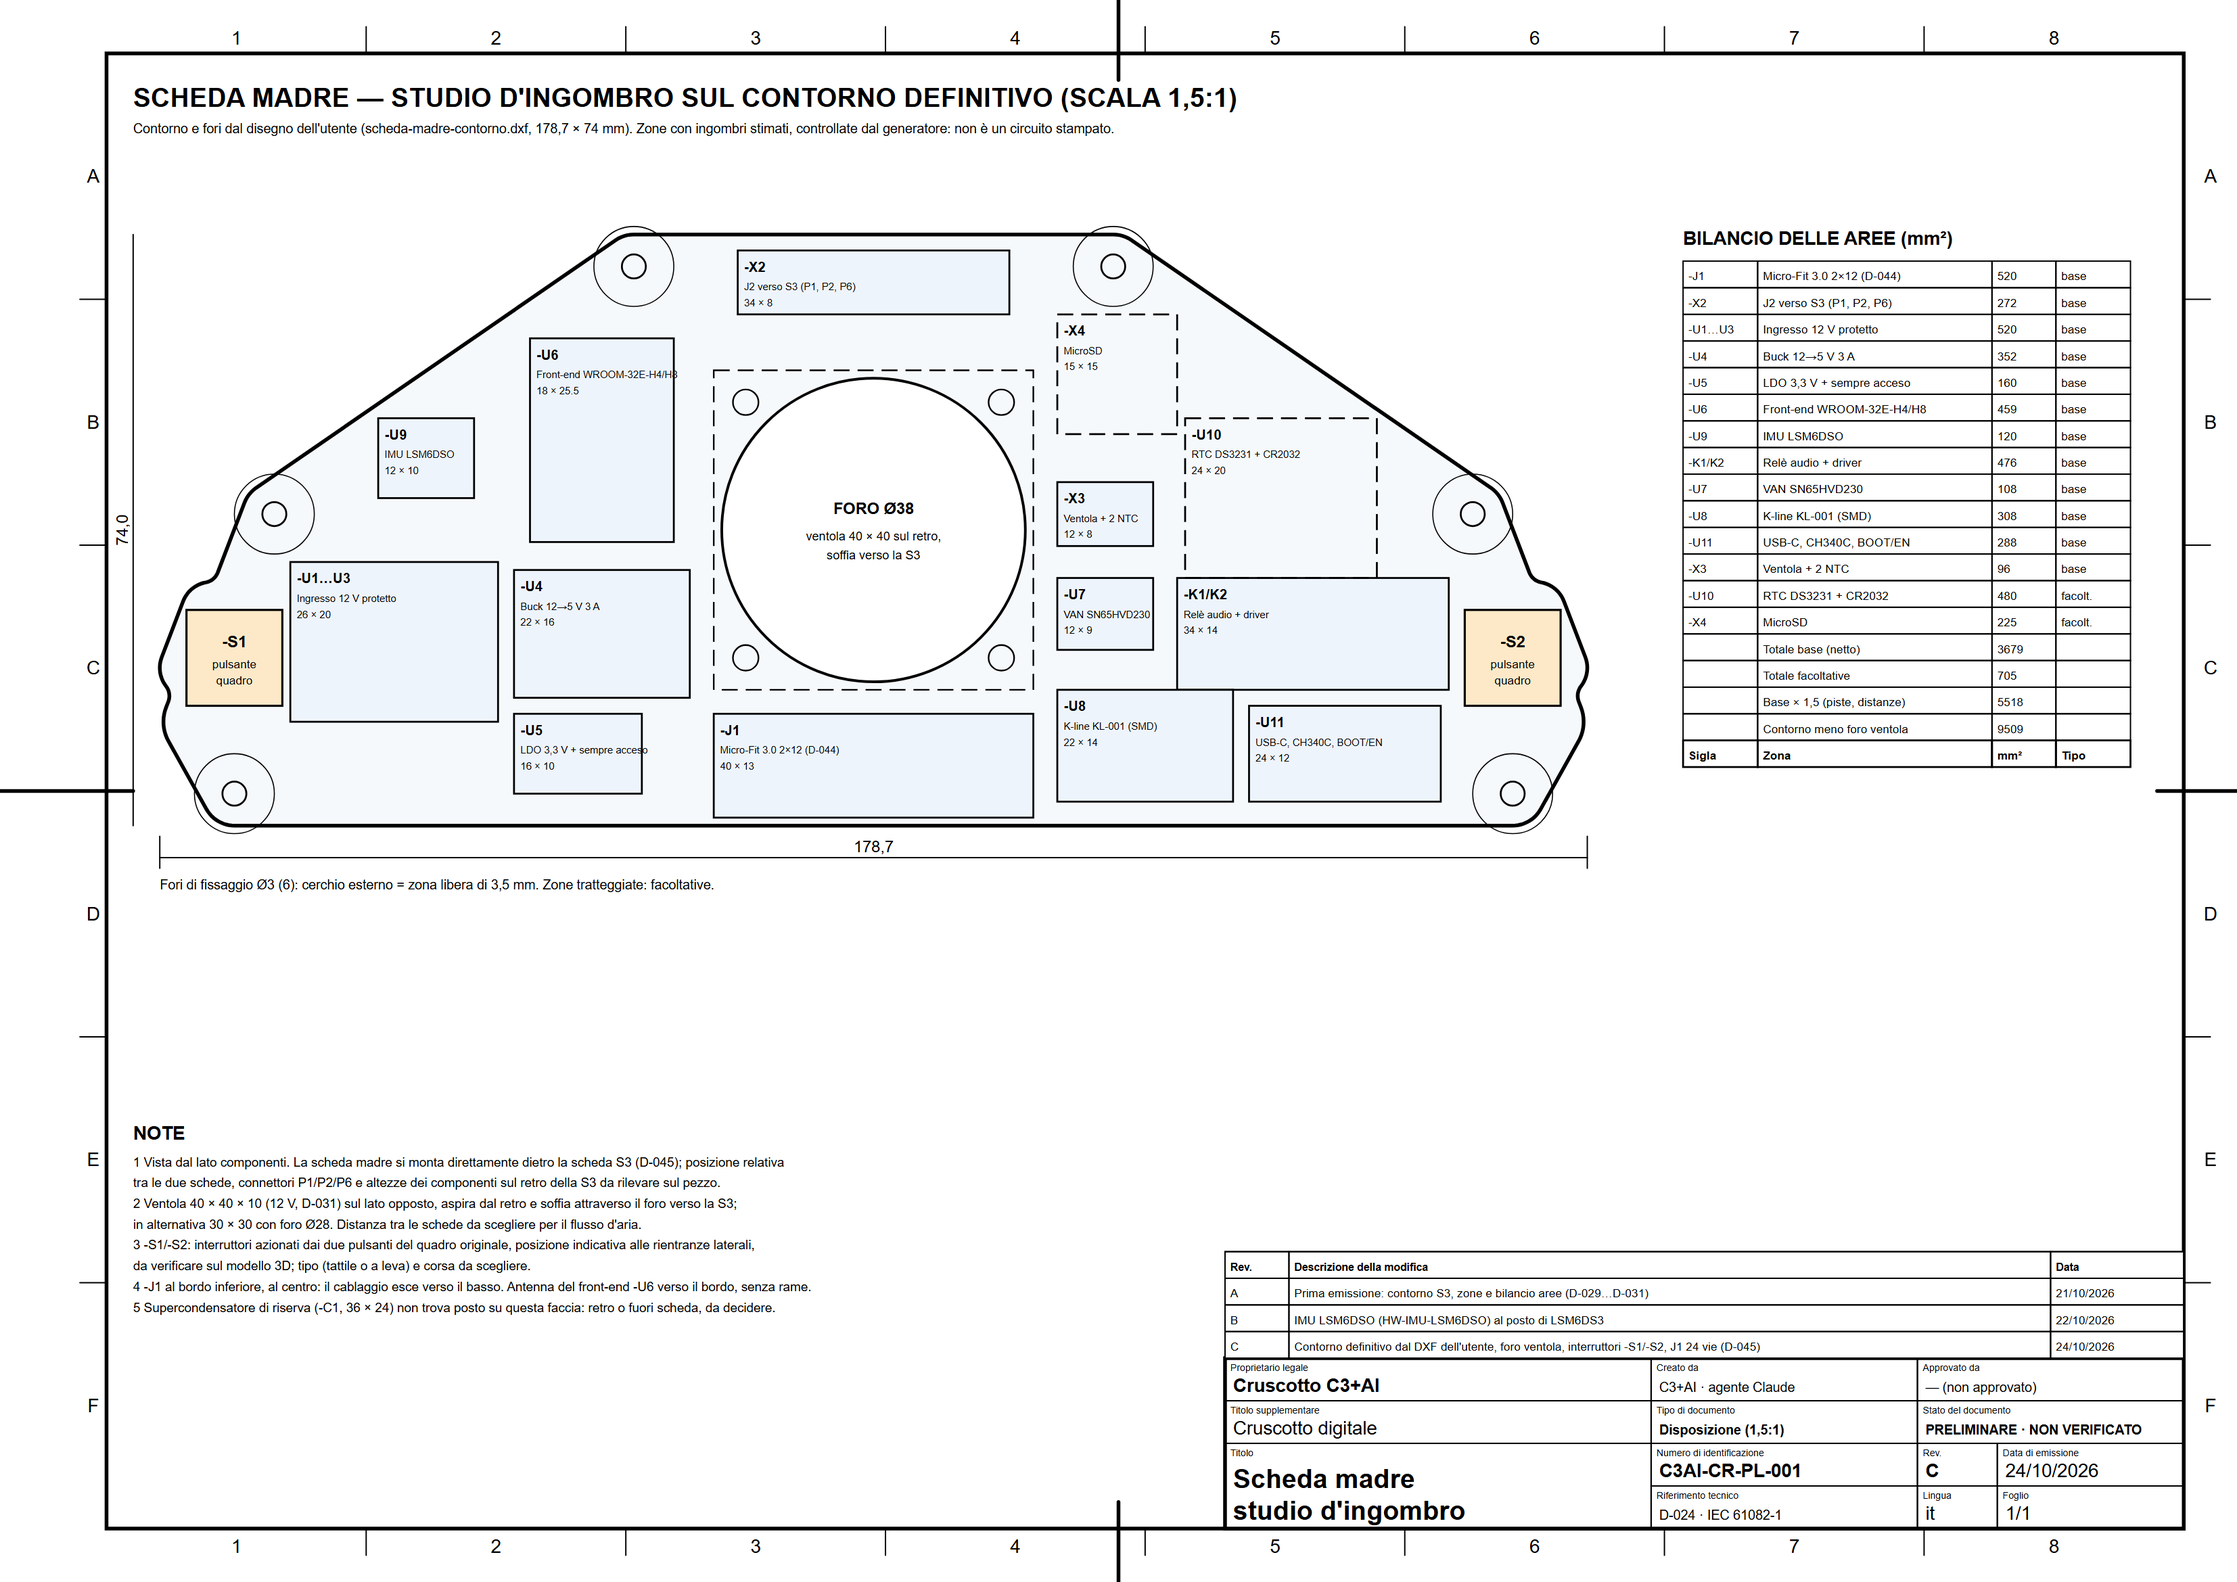
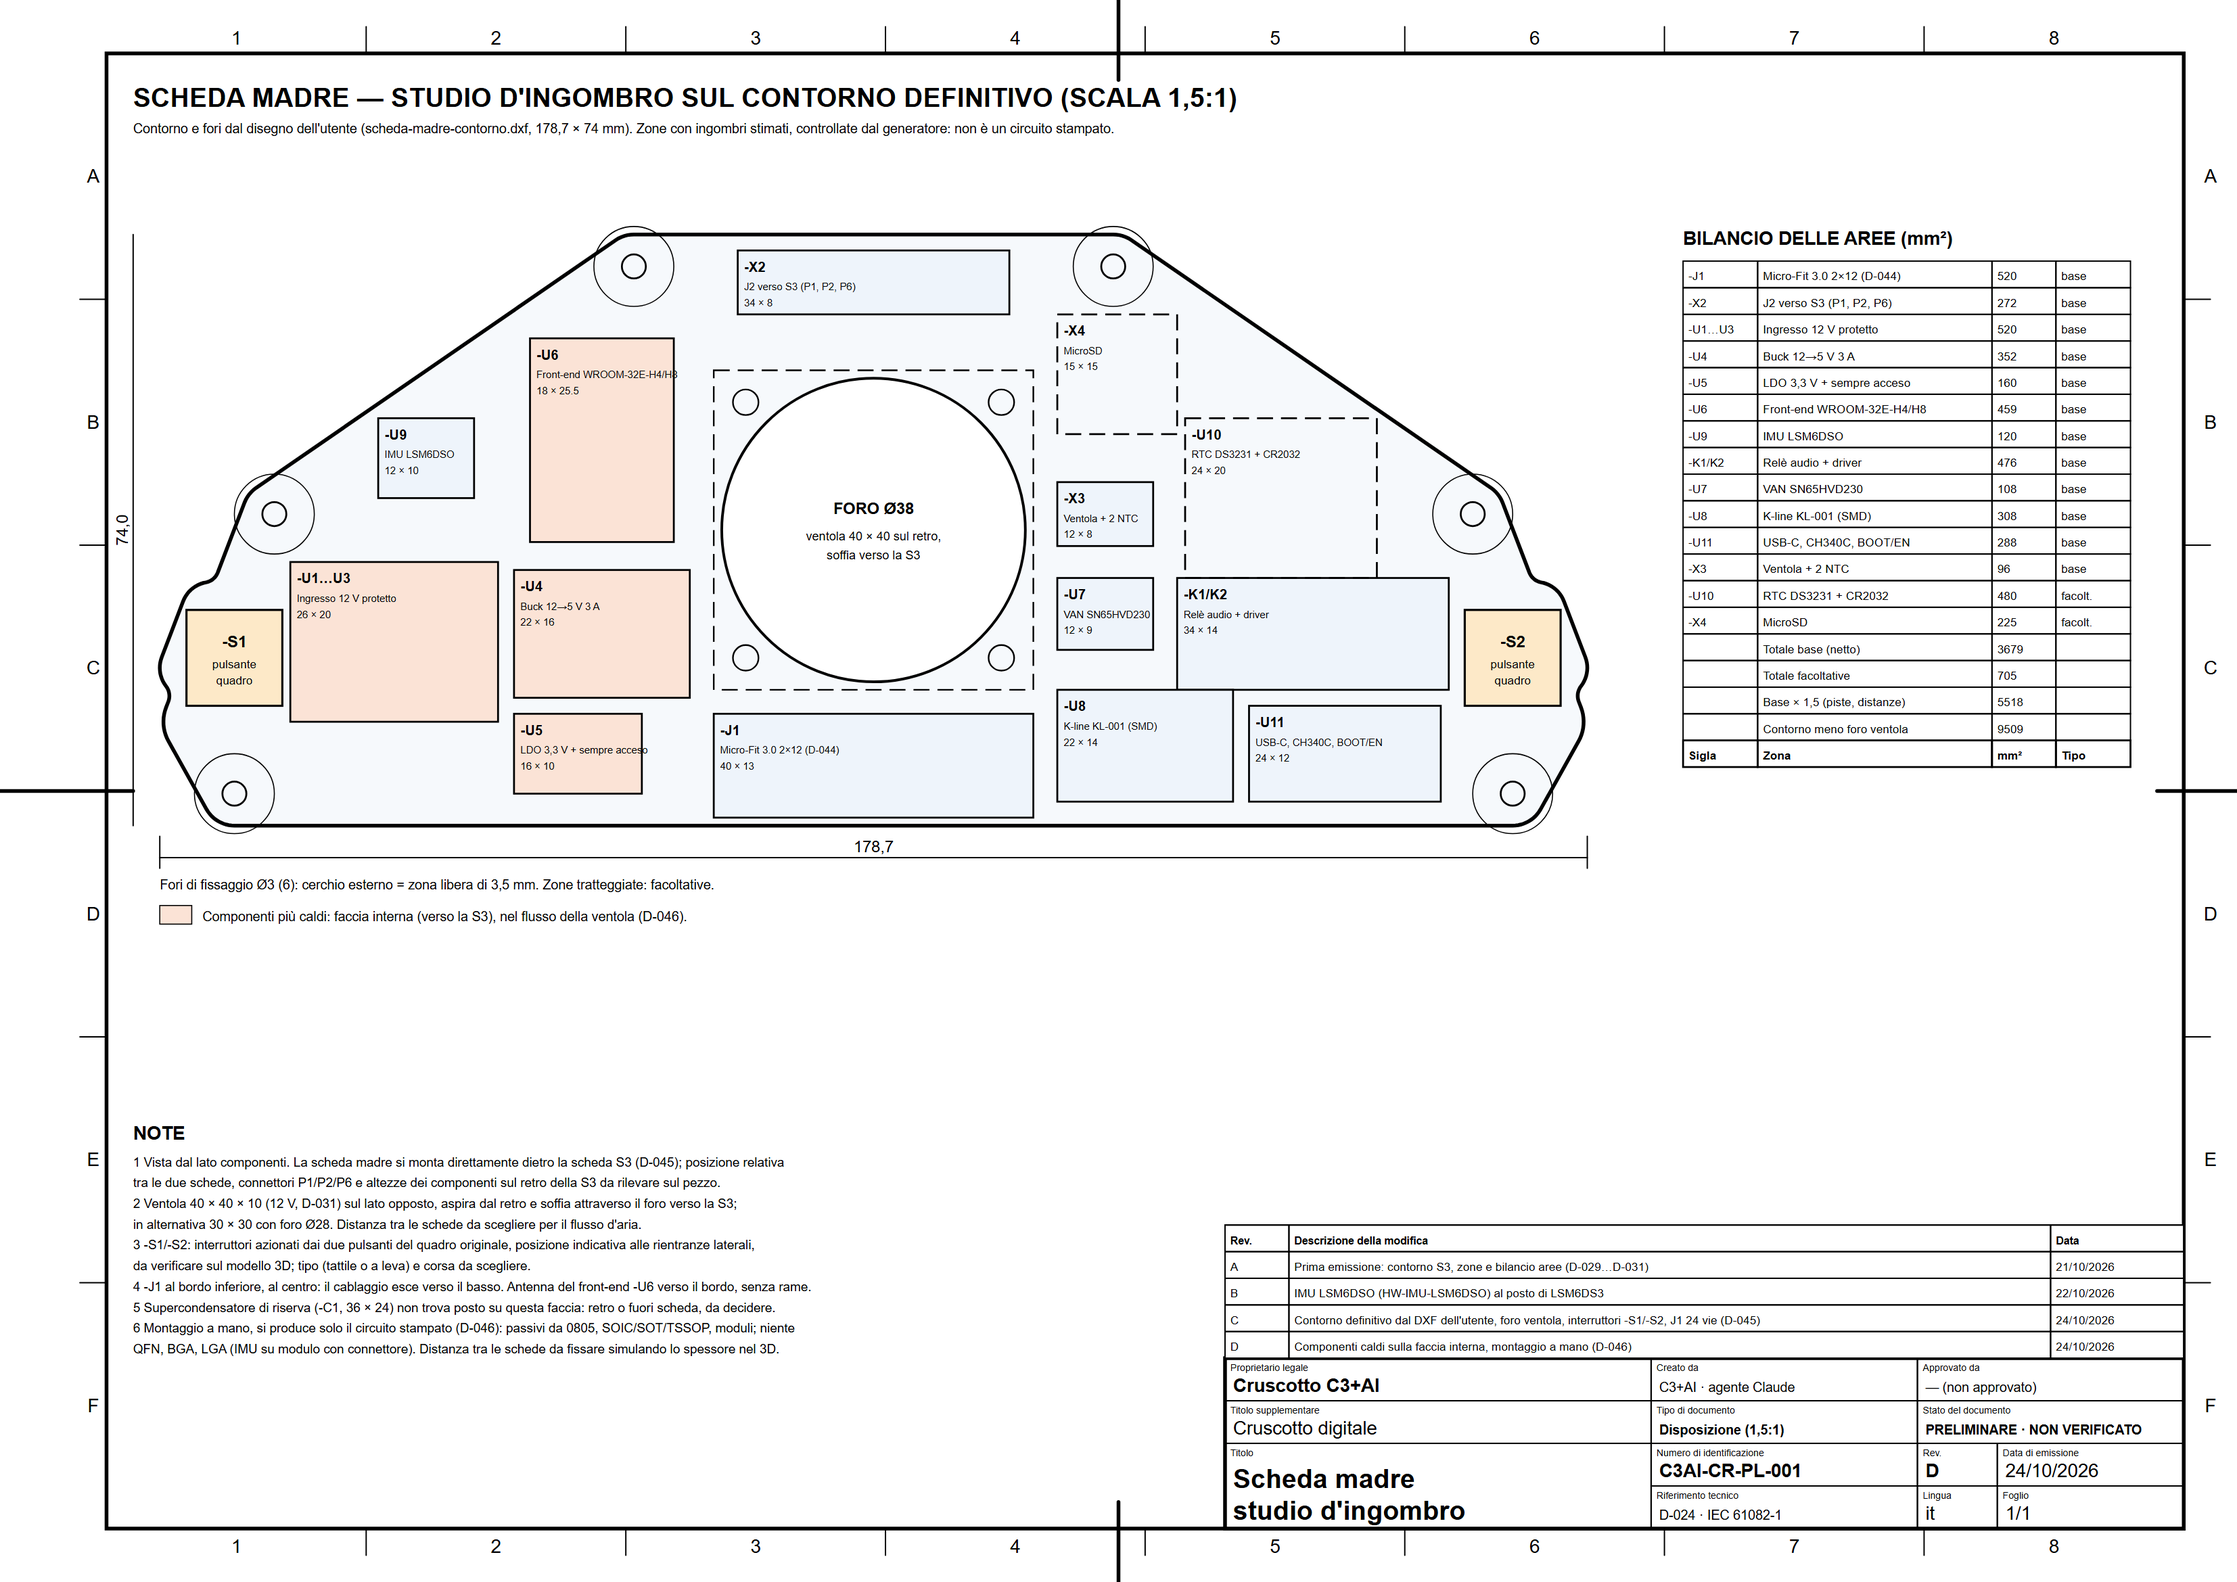
docs: D-046 hand-assembled mainboard (bare PCB only), hot parts on the inner face in the fan airflow; CR-PL-001 rev D

diff --git a/tools/genera-ingombro-scheda-madre.py b/tools/genera-ingombro-scheda-madre.py
@@ -1,5 +1,7 @@
 """Studio d'ingombro della scheda madre (C3AI-CR-PL-001), D-029…D-031, D-044, D-045.
 
+Rev. D (D-046): componenti che scaldano di più sulla faccia interna (verso la S3), attorno
+alla ventola; montaggio a mano, solo il circuito stampato prodotto.
 Rev. C (D-045): contorno e fori dal disegno dell'utente cruscotto/meccanica/scheda-madre-contorno.dxf
 (178,7 × 74 mm, 6 fori Ø3), letto direttamente dal DXF; foro centrale con ventola che soffia
 verso la S3 montata davanti; ai due estremi gli interruttori azionati dai pulsanti del quadro
@@ -112,6 +114,7 @@ ZONES = [
     ('-U10', 'RTC DS3231 + CR2032', 39, 60, 24, 20, True),
     ('-X4', 'MicroSD', 23, 73, 15, 15, True),
 ]
+HOT = {'-U1…U3', '-U4', '-U5', '-U6'}   # componenti più caldi: faccia interna, nel flusso della ventola (D-046)
 AREAS = {'-J1': 520, '-X2': 272, '-U1…U3': 520, '-U4': 352, '-U5': 160, '-U6': 459, '-U9': 120, '-K1/K2': 476,
          '-U7': 108, '-U8': 308, '-U11': 288, '-X3': 96, '-U10': 480, '-X4': 225}
 
@@ -150,7 +153,7 @@ for sx, sy in SW:
                  if 'interruttore' not in e.split(': ')[1]]
 assert not problems, '\n'.join(problems)
 
-d = Sheet('C3AI-CR-PL-001 rev C — Scheda madre, studio d\'ingombro')
+d = Sheet('C3AI-CR-PL-001 rev D — Scheda madre, studio d\'ingombro')
 d.frame()
 d.text(25, 20, 'SCHEDA MADRE — STUDIO D\'INGOMBRO SUL CONTORNO DEFINITIVO (SCALA 1,5:1)', 5, bold=True)
 d.text(25, 25, 'Contorno e fori dal disegno dell\'utente (scheda-madre-contorno.dxf, 178,7 × 74 mm). Zone con ingombri stimati, '
@@ -184,7 +187,7 @@ for i, (sx, sy) in enumerate(SW, 1):
 for ref, label, x, y, w, h, optional in ZONES:
     zx, zy = P(x, y)
     d.rect(zx, zy, w * SCALE, h * SCALE, width=0.35, dash='3 1.5' if optional else None,
-           fill='#eef4fb' if not optional else 'none')
+           fill='#fbe3d6' if ref in HOT else '#eef4fb' if not optional else 'none')
     d.text(zx + 1.2, zy + 4, ref, 2.6, 'start', True)
     d.text(zx + 1.2, zy + 7.5, label, 1.9)
     d.text(zx + 1.2, zy + 10.5, f'{w:g} × {h:g}', 1.9)
@@ -200,6 +203,8 @@ d.text((x0 + x1) / 2, y1 + 5, f'{XMAX - XMIN:.1f}'.replace('.', ','), 3, 'middle
 d.line((x0 - 5, y0), (x0 - 5, y1), width=0.25)
 d.text(x0 - 6, (y0 + y1) / 2, f'{YMAX - YMIN:.1f}'.replace('.', ','), 3, 'middle', rotate=-90)
 d.text(x0, y1 + 12, 'Fori di fissaggio Ø3 (6): cerchio esterno = zona libera di 3,5 mm. Zone tratteggiate: facoltative.', 2.5)
+d.raw(f'<rect x="{x0:.2f}" y="{y1 + 15:.2f}" width="6" height="3.5" fill="#fbe3d6" stroke="#000" stroke-width="0.2"/>')
+d.text(x0 + 8, y1 + 18, 'Componenti più caldi: faccia interna (verso la S3), nel flusso della ventola (D-046).', 2.5)
 
 rows = []
 core = opt = 0
@@ -226,14 +231,17 @@ d.notes(25, 214, 'NOTE', [
     '   da verificare sul modello 3D; tipo (tattile o a leva) e corsa da scegliere.',
     '4  -J1 al bordo inferiore, al centro: il cablaggio esce verso il basso. Antenna del front-end -U6 verso il bordo, senza rame.',
     '5  Supercondensatore di riserva (-C1, 36 × 24) non trova posto su questa faccia: retro o fuori scheda, da decidere.',
+    '6  Montaggio a mano, si produce solo il circuito stampato (D-046): passivi da 0805, SOIC/SOT/TSSOP, moduli; niente',
+    '   QFN, BGA, LGA (IMU su modulo con connettore). Distanza tra le schede da fissare simulando lo spessore nel 3D.',
 ], h=2.4, step=3.9)
 
 d.title_block(title=['Scheda madre', 'studio d\'ingombro'], subtitle='Cruscotto digitale',
               doc_type='Disposizione (1,5:1)', status='PRELIMINARE · NON VERIFICATO',
-              code='C3AI-CR-PL-001', rev='C', date='24/10/2026', sheet='1/1',
+              code='C3AI-CR-PL-001', rev='D', date='24/10/2026', sheet='1/1',
               revisions=[('A', 'Prima emissione: contorno S3, zone e bilancio aree (D-029…D-031)', '21/10/2026'),
                          ('B', 'IMU LSM6DSO (HW-IMU-LSM6DSO) al posto di LSM6DS3', '22/10/2026'),
-                         ('C', 'Contorno definitivo dal DXF dell\'utente, foro ventola, interruttori -S1/-S2, J1 24 vie (D-045)', '24/10/2026')])
+                         ('C', 'Contorno definitivo dal DXF dell\'utente, foro ventola, interruttori -S1/-S2, J1 24 vie (D-045)', '24/10/2026'),
+                         ('D', 'Componenti caldi sulla faccia interna, montaggio a mano (D-046)', '24/10/2026')])
 out = ROOT / 'disegni/sorgenti/CR-PL-001_scheda-madre-ingombro.svg'
 out.write_text(d.svg('Studio d\'ingombro della scheda madre sul contorno definitivo; stime, non PCB.'), encoding='utf-8')
 print(out, 'base', core, 'facoltative', opt, 'area utile', round(board_area - fan_area))

diff --git a/README.md b/README.md
@@ -90,6 +90,7 @@ Le date indicano la registrazione, non necessariamente la prima discussione.
 | D-043 | approvata | **Pubblicazione su GitHub a fine sessione**: durante la sessione commit e controlli locali; push, PR, attesa della CI e unione in main una sola volta quando l'utente scrive «fine sessione». Eccezioni: esito CI necessario prima (es. prima di caricare un firmware) o richiesta espressa dell'utente. D-021 resta valida al momento della pubblicazione. | Utente 22/10/2026: "visto che l'operazione CI necessita di molto tempo e interrompe troppo la sessione eseguiamola, salvo casi in cui è necessario prima, al momento che a fine della sessione io ti scriverò 'fine sessione'". |
 | D-044 | approvata | **Connettore verso l'auto -J1 = Molex Micro-Fit 3.0 a 24 vie** (2x12, passo 3 mm, aggancio a scatto e inserimento in un solo verso, 5 A per contatto, -40...+105 °C). Il cablaggio dell'auto termina con la femmina 43025-2400 (contatti 43030-0007); il prototipo a banco usa da subito la spina volante 43020-2400 (contatti 43031-0007), la scheda madre definitiva il connettore da circuito stampato 43045-2400 che si innesta nella stessa femmina. Vie 1-16 come la bozza di -J1, 17-24 di riserva. | Utente 23/10/2026: "prevedere immediatamente un connettore da usare per l'interfaccia k uguale a quello definitivo [...] così fatto il lavoro la prima volta sull'auto ce lo ritroveremo poi"; scelta "Molex Micro-Fit 3.0, 20/24 vie": adottate 24 vie (più riserva). Disponibilità Farnell 23/10/2026; nulla ordinato. Pinza a crimpare da scegliere. |
 | D-045 | approvata | **Contorno della scheda madre** dal modello 3D del cruscotto dell'utente (`cruscotto/meccanica/scheda-madre-contorno.dxf`, 178,7 × 74 mm, 6 fori Ø3), al posto del contorno della S3 (137 × 84 mm). La scheda madre è **installata direttamente dietro la S3**; **foro centrale con ventolina** che soffia verso la S3 (D-031); **ai due estremi gli interruttori** azionati dai due pulsanti del quadro originale. | Utente 24/10/2026: "questo è il contorno della motherboard, [...] al centro si potrebbe creare un foro e mettere una ventolina che soffia verso l's3, [...] sarà installata direttamente dietro. agli estremi ci saranno i due switch comandati dai pulsanti del cruscotto originale". Ventola 40 × 40 e posizione degli interruttori proposte nello studio C3AI-CR-PL-001 rev C, da verificare sul modello 3D. |
+| D-046 | approvata | **Scheda madre assemblata a mano dall'utente**: si fa produrre **solo il circuito stampato** (nudo), i componenti si saldano a mano. Regole di progetto: componenti a foro passante o SMD saldabili a mano (passivi da 0805 in su, SOIC/SOT/TSSOP, moduli con piazzole sul bordo come il WROOM); niente QFN, BGA né LGA sulla scheda: i sensori in LGA (IMU) restano su modulo o adattatore con connettore. **Componenti che scaldano di più sulla faccia interna**, attorno al foro della ventola, nel flusso d'aria (ventola al centro confermata, D-045). Distanza tra scheda madre e S3 da fissare a progetto completato, simulando lo spessore della scheda. | Utente 24/10/2026: "la ventola andrà bene al centro"; "metterei i componenti che scaldano di più all'interno così verrebbero investiti dal flusso d'aria della ventola"; "progetterei per essere assemblata da me, farei produrre soltanto il pcb". Interpretazione di "all'interno": faccia rivolta verso la S3, vicino alla ventola. |
 
 Nessuna nuova proposta tecnica è resa definitiva solo perché compare in una
 risposta, nella distinta proposta o in un disegno. Per cambiare una decisione
@@ -183,7 +184,7 @@ Cruscotto digitale (D-026): scheda ESP32-8048S050 identificata (ESP32-S3, 16 MB
 flash, 8 MB PSRAM, esptool), variante senza touch (D-027), backup di fabbrica in
 [data-logger/backups/esp32-8048s050](data-logger/backups/esp32-8048s050/README.md).
 [Prova display 0.1.0](cruscotto/firmware/display-test/README.md): compilata,
-caricata e conforme a banco (DSP-M001): pinout RGB e PSRAM verificati. [Prova UI LVGL](cruscotto/firmware/ui-test/README.md) 0.1.1 (DSP-M003). Mappa dei collegamenti in definizione (D-028…D-030); [istruzione di prova presa OBD](disegni/CR-PR-001_prova-presa-obd.png) C3AI-CR-PR-001; [scheda madre preliminare](cruscotto/docs/scheda-madre.md) C3AI-CR-BL-001 rev D e studio d'ingombro C3AI-CR-PL-001 rev C (contorno D-045); [requisiti dell'interfaccia](cruscotto/docs/interfaccia-requisiti.md) in raccolta (D-041).
+caricata e conforme a banco (DSP-M001): pinout RGB e PSRAM verificati. [Prova UI LVGL](cruscotto/firmware/ui-test/README.md) 0.1.1 (DSP-M003). Mappa dei collegamenti in definizione (D-028…D-030); [istruzione di prova presa OBD](disegni/CR-PR-001_prova-presa-obd.png) C3AI-CR-PR-001; [scheda madre preliminare](cruscotto/docs/scheda-madre.md) C3AI-CR-BL-001 rev D e studio d'ingombro C3AI-CR-PL-001 rev D (contorno D-045, montaggio a mano D-046); [requisiti dell'interfaccia](cruscotto/docs/interfaccia-requisiti.md) in raccolta (D-041).
 
 ### Collaudo SPI a banco — 18/10/2026
 

diff --git a/cruscotto/docs/scheda-madre.md b/cruscotto/docs/scheda-madre.md
@@ -2,7 +2,7 @@
 
 Revisione B, 21/10/2026 (rev A 20/10/2026). Cruscotto C3+AI, decisioni D-028…D-031.
 Schema a blocchi: [C3AI-CR-BL-001 rev D](../../disegni/CR-BL-001_scheda-madre-blocchi.png) ([SVG](../../disegni/sorgenti/CR-BL-001_scheda-madre-blocchi.svg),
-generatore `tools/genera-scheda-madre.py`). Studio d'ingombro: [C3AI-CR-PL-001 rev C](../../disegni/CR-PL-001_scheda-madre-ingombro.png)
+generatore `tools/genera-scheda-madre.py`). Studio d'ingombro: [C3AI-CR-PL-001 rev D](../../disegni/CR-PL-001_scheda-madre-ingombro.png)
 ([SVG](../../disegni/sorgenti/CR-PL-001_scheda-madre-ingombro.svg), generatore `tools/genera-ingombro-scheda-madre.py`).
 
 **Stato: proposta.** Nessun componente scelto in via definitiva, nessuno schema
@@ -103,6 +103,19 @@ della prova sulla presa OBD) non trova posto su questa faccia: retro o fuori sch
 decidere. Da rilevare sul pezzo: posizione relativa delle due schede, connettori P1/P2/P6
 e altezze dei componenti sul retro della S3.
 
+## Montaggio a mano e raffreddamento dei componenti (D-046)
+
+- Si fa produrre **solo il circuito stampato**; i componenti li salda l'utente.
+- Componenti ammessi: foro passante; SMD con passivi **0805 o più grandi**, integrati in
+  **SOIC, SOT, TSSOP**; moduli con piazzole sul bordo (WROOM). **Esclusi QFN, BGA, LGA**:
+  l'IMU (LGA) resta su modulo o adattatore con connettore (es. STEVAL-MKI196V1 o il suo
+  equivalente definitivo, D-033). Ogni scelta di componente va controllata con questa regola.
+- **Componenti che scaldano di più sulla faccia interna**, rivolta verso la S3, attorno al
+  foro della ventola (D-045): convertitore 12 → 5 V, regolatore 3,3 V, protezioni d'ingresso,
+  front-end. Il flusso della ventola li investe prima di uscire tra le due schede.
+- Distanza tra scheda madre e S3: da fissare a progetto completato, simulando nel modello 3D
+  lo spessore della scheda con i componenti.
+
 ## Collegamenti verso l'S3 (-J2)
 
 | Connettore S3 | Segnale | Note |
@@ -152,4 +165,5 @@ interfacce 0,1-0,25 A, relè 0,07 A, amplificatore a picchi 0,5-1 A. A riposo
    componenti sul retro, zona antenna Wi-Fi; scelta dei distanziali con dissipatore.
 7. Misura della temperatura dietro il quadro; scelta di connettori e componenti
    con temperatura e vibrazioni adatte.
-8. Strumento di progetto del circuito stampato: KiCad (gratuito, open source, D-003).
+8. Strumento di progetto del circuito stampato: KiCad (gratuito, open source, D-003); produzione del solo
+   circuito stampato e montaggio a mano (D-046).

diff --git a/disegni/README.md b/disegni/README.md
@@ -20,7 +20,7 @@ Architettura della scheda madre: alimentazione, front-end, interfacce, audio. Do
 
 [![CR-BL-001](CR-BL-001_scheda-madre-blocchi.png)](CR-BL-001_scheda-madre-blocchi.png)
 
-### CR-PL-001 — Scheda madre, studio d'ingombro (rev C, preliminare)
+### CR-PL-001 — Scheda madre, studio d'ingombro (rev D, preliminare)
 Zone dei componenti sul contorno definitivo dal modello 3D (178,7 × 74 mm, D-045), foro centrale della ventola e interruttori dei pulsanti del quadro.
 
 [![CR-PL-001](CR-PL-001_scheda-madre-ingombro.png)](CR-PL-001_scheda-madre-ingombro.png)
